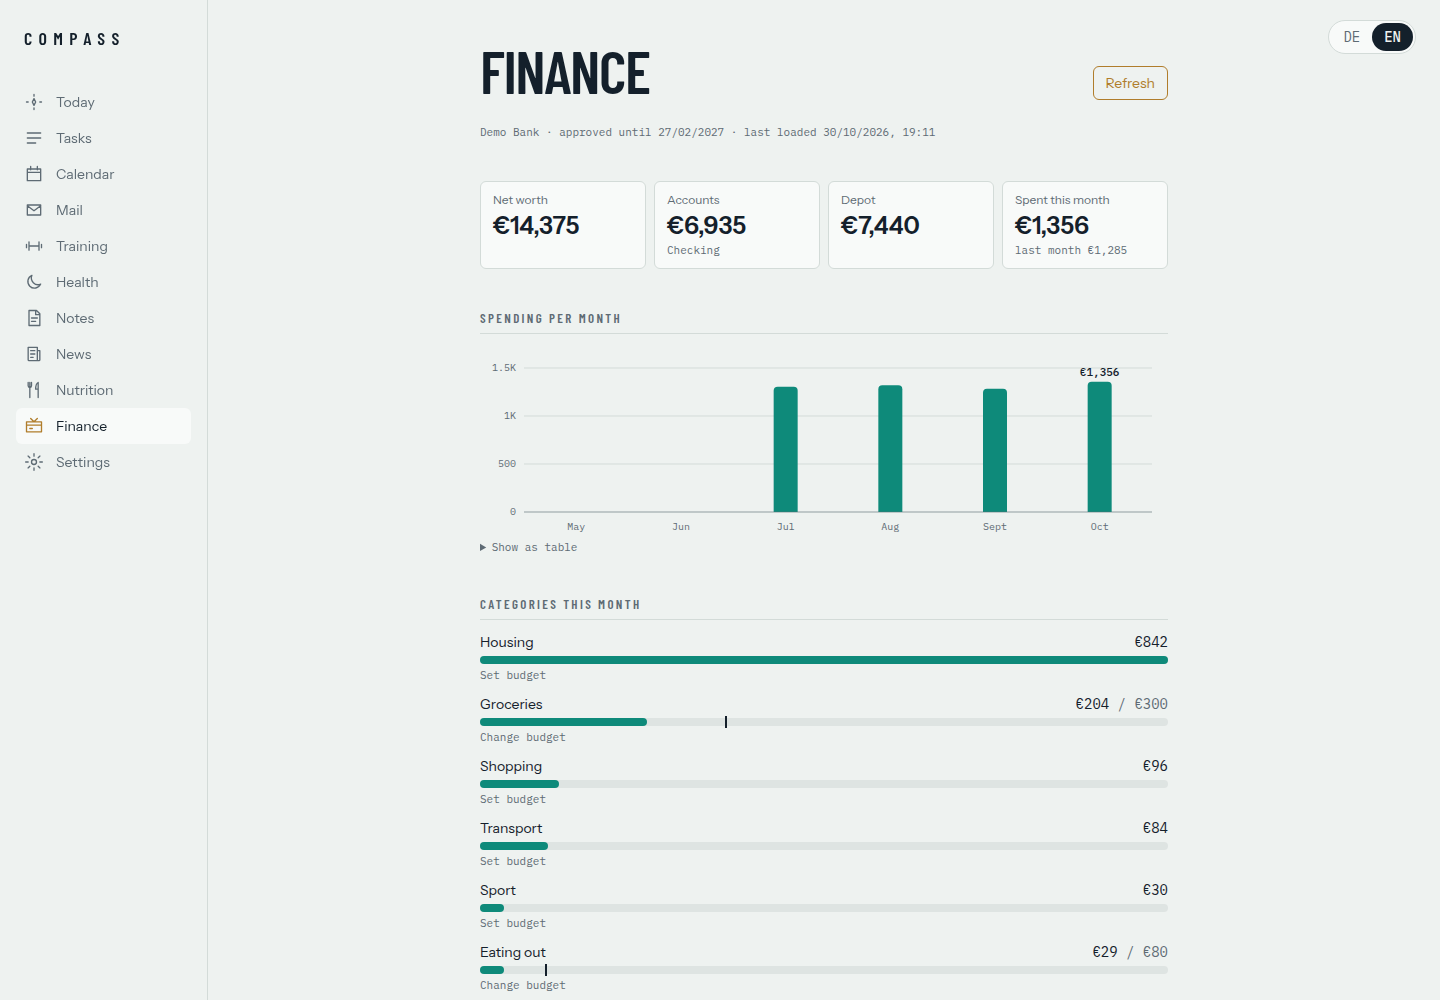
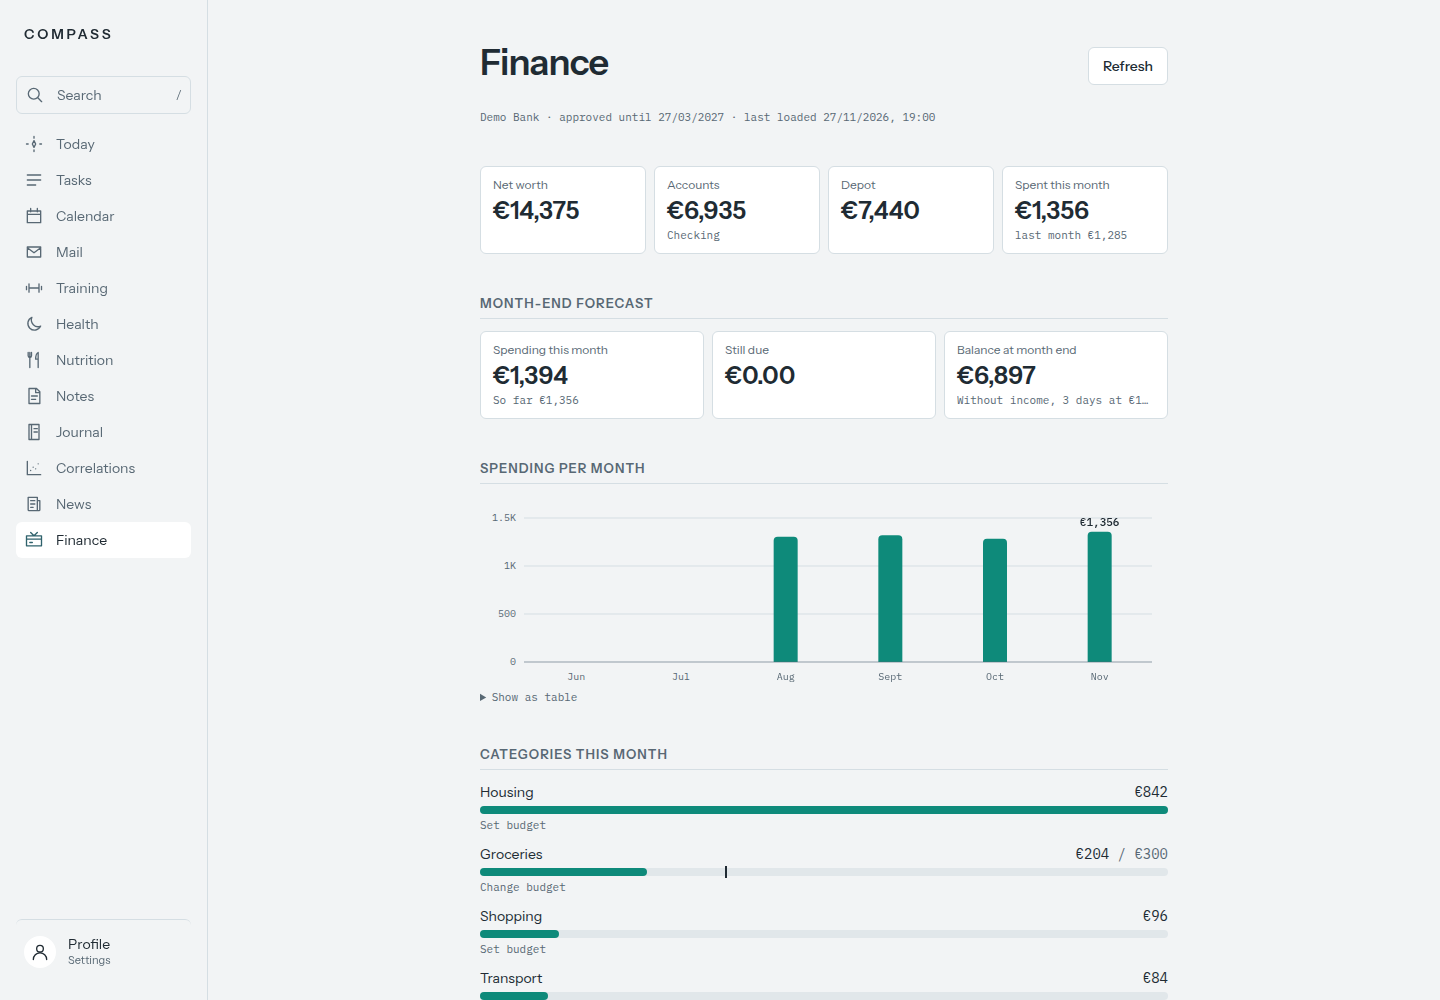
refresh the readme screenshots and list the new mcp tools, savings goals, splits and the daily depot value

diff --git a/README.md b/README.md
@@ -25,7 +25,8 @@ The screenshots show made-up data.
 - **Today:** the day as a course line from waking up to the evening, events, due and planned tasks,
   important mails, the daily brief and live health tiles.
 - **Notes:** a small knowledge base with tags and full text search; links and text can be shared into it
-  from the phone.
+  from the phone. Optionally, notes and journal entries are also found by meaning (pgvector with an
+  embedding model from Ollama or any OpenAI-compatible endpoint, see `EMBEDDING_URL` in `.env.example`).
 - **Readiness:** a score from 0 to 100 on the Today page and in `get_today`, by fixed rules from last
   night's sleep, the resting heart rate and HRV against their usual, and the training of the last two
   days, with the reasons that took points off.
@@ -45,8 +46,10 @@ The screenshots show made-up data.
   fixed rules.
 - **Mail:** read-only IMAP for any number of accounts, triaged by a cloud model (Anthropic API) or a local Ollama model.
 - **News:** RSS feeds ranked by an interest profile you train with thumbs up and down.
-- **Finance:** bank accounts through Enable Banking, categories, budgets and recurring payments. Only
-  banks in the EU and EEA, see the [note below](#finance).
+- **Finance:** bank accounts through Enable Banking, categories, budgets, transactions split across
+  categories, recurring payments, savings goals and a forecast for the end of the month. The depot is
+  valued daily from its positions with Yahoo Finance closing prices. Bank accounts only in the EU and EEA,
+  see the [note below](#finance).
 - **Export:** everything Compass stores as a zip with one JSON file per table, under Settings or
   `/api/export`; sign-ins, tokens and raw health records stay out.
 - **Push notifications** to the installed PWA: bedtime, deadlines, resting heart rate, bank access,
@@ -278,13 +281,14 @@ in developer mode, should work the same way.
 | Calendar | `get_calendar` |
 | Notes | `search_notes`, `get_note`, `get_context`, `add_note`, `append_note` |
 | Journal | `get_journal`, `write_journal` (appends to the day's text) |
-| Training | `training_summary`, `exercise_progress`, `progression_suggestions` |
-| Health and body | `sleep_summary`, `nutrition_summary`, `set_nutrition_goal`, `body_trend`, `log_body_metric`, `weekly_review`, `monthly_review`, `daily_data` (one row per day across all areas) |
+| Training | `training_summary`, `get_training_session`, `exercise_progress`, `progression_suggestions` |
+| Habits | `list_habits`, `check_habit` |
+| Health and body | `sleep_summary`, `log_sleep`, `nutrition_summary`, `set_nutrition_goal`, `body_trend`, `log_body_metric`, `weekly_review`, `monthly_review`, `daily_data` (one row per day across all areas) |
 | Mail | `list_important_mails`, `mails_to_triage`, `save_mail_triage`, `mail_to_task` |
 | News | `get_news_digest`, `feedback_news` |
-| Finance | `finance_summary`, `list_transactions`, `categorize_transactions`, `set_budget`, `log_depot_value` |
+| Finance | `finance_summary`, `list_transactions`, `categorize_transactions`, `split_transaction`, `set_budget`, `list_savings_goals`, `save_savings_goal`, `log_depot_value` |
 | Dashboard | `save_brief`, `get_brief`, `send_notification` |
-| Everything | `search` (tasks, notes, calendar events and mails at once) |
+| Everything | `search` (tasks, notes, journal, calendar events and mails at once) |
 
 Prompts: `daily_brief`, `news_report`, `sort_mails`, `weekly_review`, `health_analysis` (patterns across sleep, training, nutrition and weight).
 

diff --git a/docs/finance.md b/docs/finance.md
@@ -6,7 +6,7 @@
 
 Compass reads transactions and balances from your bank through [Enable Banking](https://enablebanking.com) (a PSD2 account information service). You grant access at your bank, and Compass never sees your login. Access lasts at most 180 days (less at some banks). A push notification reminds you a week before it ends.
 
-Brokers without an API for securities accounts (e.g. Trade Republic) are not covered. Enter the depot value on the Finance page or through your AI assistant (`log_depot_value`), about once a month. Compass recognises transfers from the checking account to the depot as "savings".
+Brokers without an API for securities accounts (e.g. Trade Republic) are not covered. Enter your positions (symbol and quantity) on the Finance page instead: Compass values the depot every day with the closing prices from Yahoo Finance (no account needed). Without positions, enter the depot value by hand there or through your AI assistant (`log_depot_value`); a value entered by hand counts for that day. Compass recognises transfers from the checking account to the depot as "savings".
 
 ## 1. Create an application at Enable Banking
 
